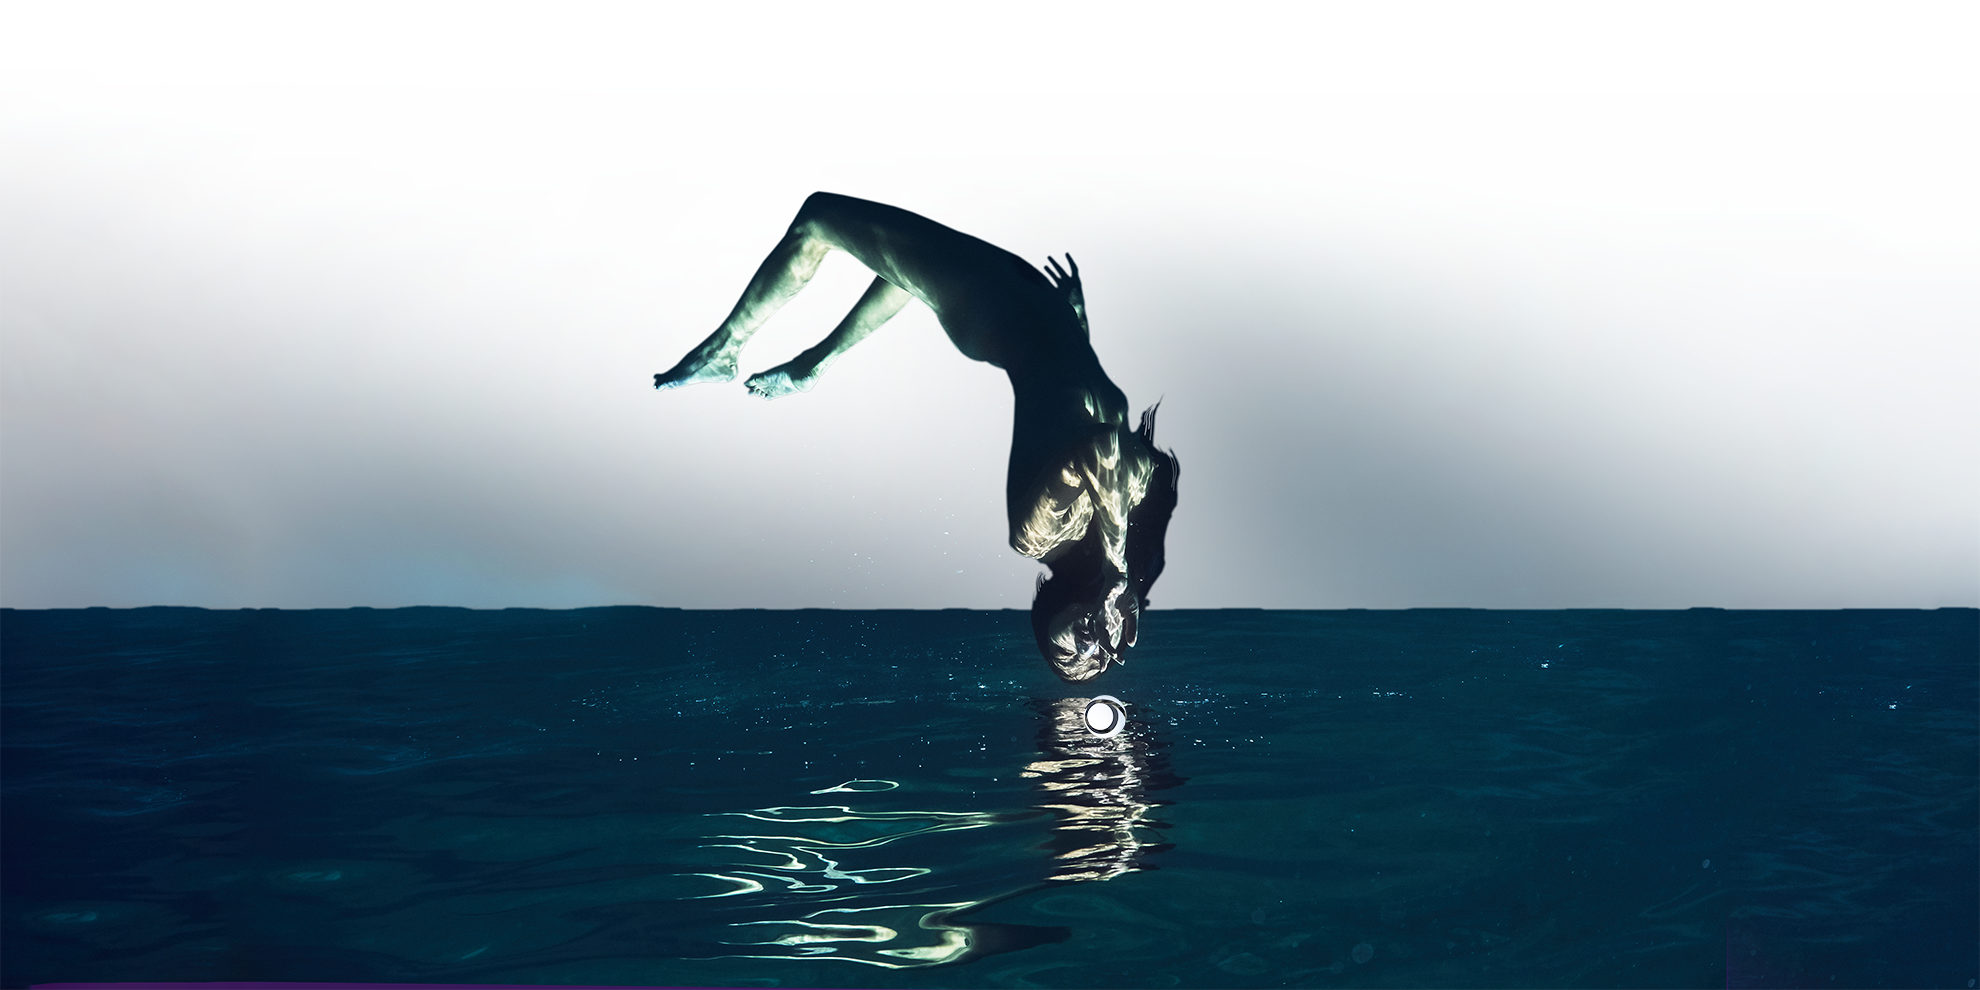
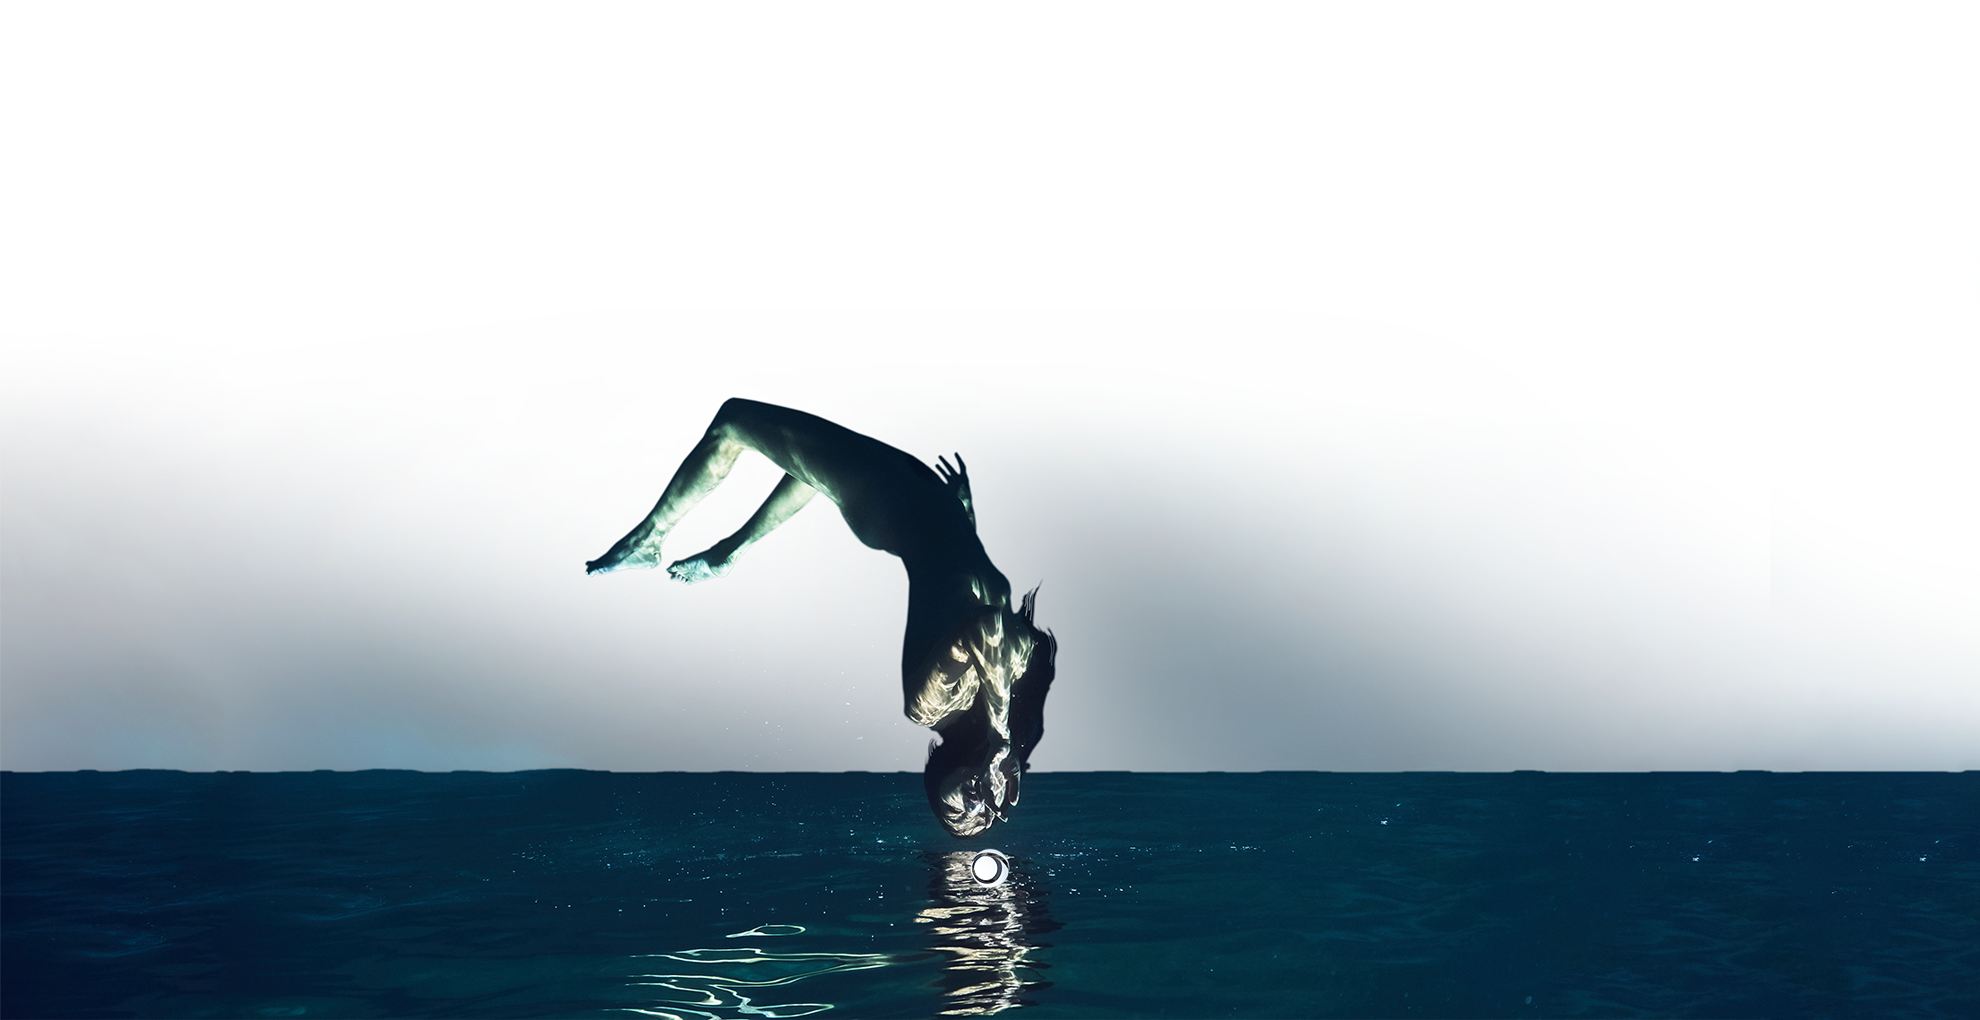
upated footer bgs

diff --git a/frontend/src/components/About/AboutStyles.jsx b/frontend/src/components/About/AboutStyles.jsx
@@ -45,7 +45,7 @@ const getStyles: GetStyles<Props, Styles> = props => {
             height: '100%',
             backgroundImage: `url(${props.bgUrl})`,
             backgroundSize: 'cover',
-            backgroundPositionY: '-10rem',
+            backgroundPosition: 'bottom',
         },
         p: {
             padding: appStyles.unitHeight + ' ' + sidebarWidth
